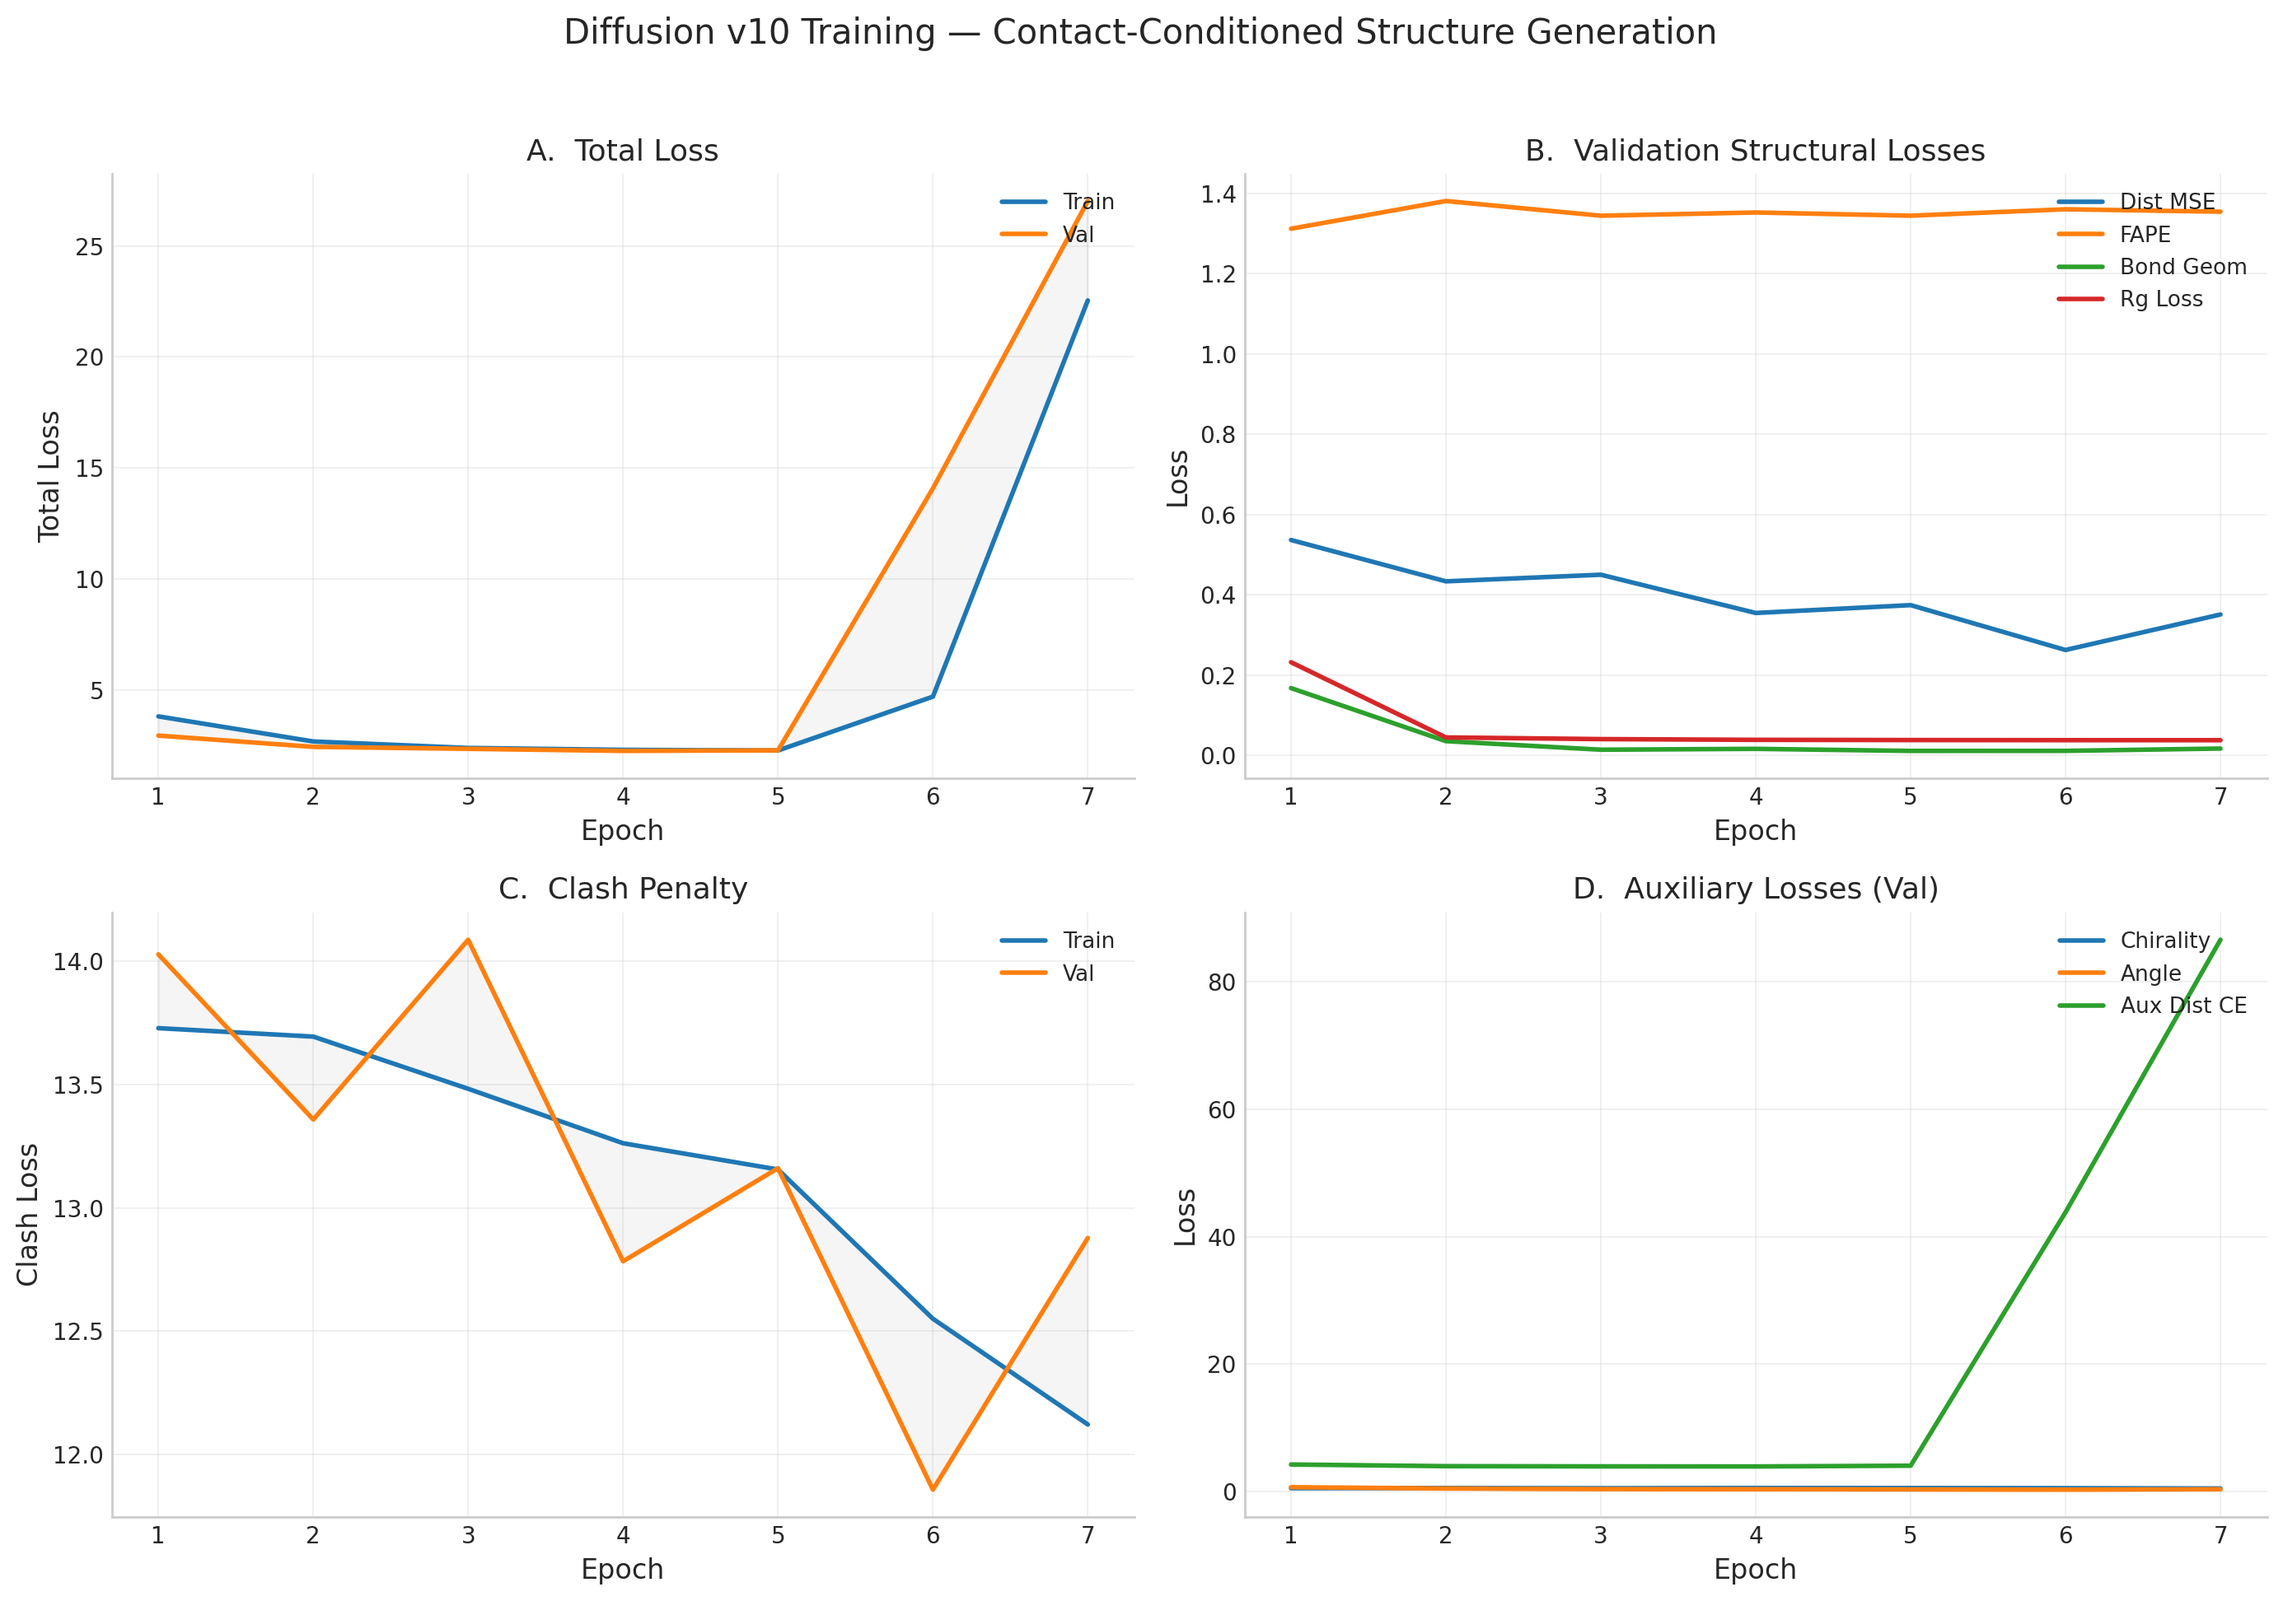
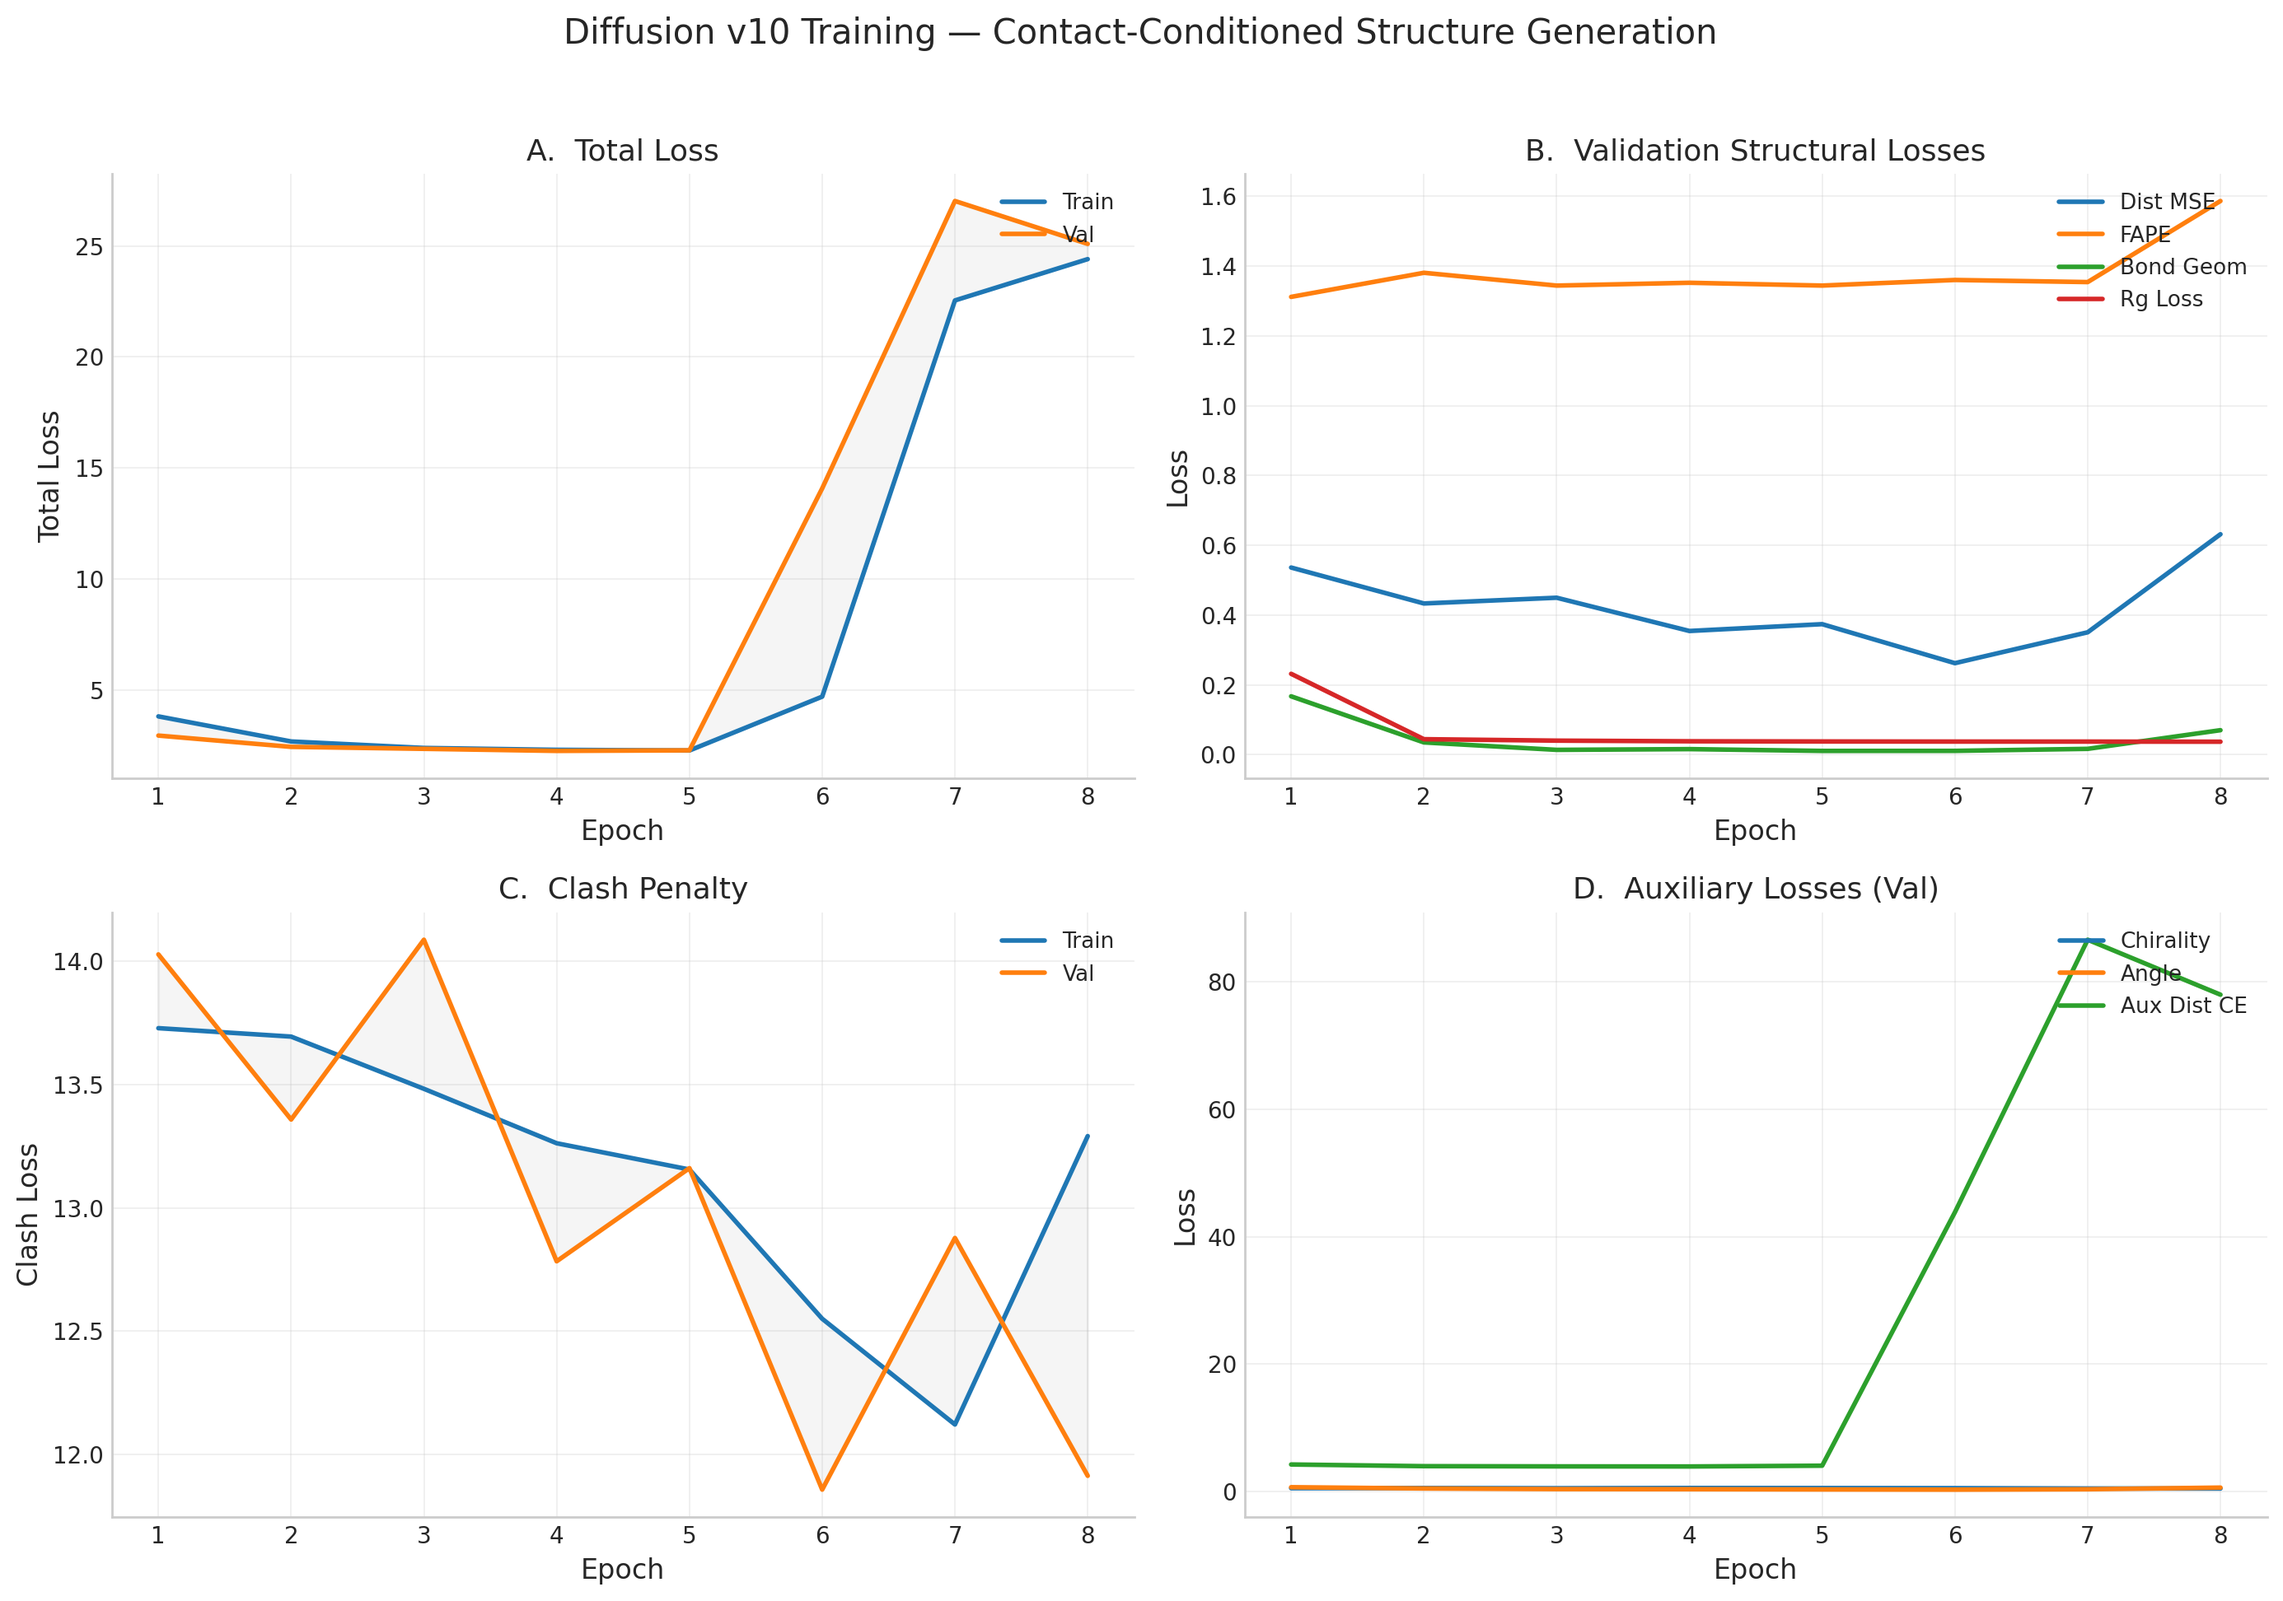
auto-update v10 training progress

diff --git a/index.html b/index.html
@@ -1305,20 +1305,31 @@
                 <td>&mdash;</td>
                 <td><span class="tag tag-pat">pat 3</span></td>
               </tr>
+              <tr>
+                <td>8</td>
+                <td>25.095</td>
+                <td>0.632</td>
+                <td>1.586</td>
+                <td>0.037</td>
+                <td>0.070</td>
+                <td>&mdash;</td>
+                <td>&mdash;</td>
+                <td><span class="tag tag-pat">pat 4</span></td>
+              </tr>
               </tbody>
           </table>
         </div>
 
-        <h4 class="training-progress-heading">Loss Curves (through Epoch 7)</h4>
+        <h4 class="training-progress-heading">Loss Curves (through Epoch 8)</h4>
         <div style="text-align: center; margin: 16px 0;">
           <img src="data/training/v10_loss_curves.png" alt="V10 diffusion training loss curves" style="max-width: 100%; border-radius: 6px; border: 1px solid var(--border);">
         </div>
 
         <div class="training-pending-note" id="v9-run2-status">
-          v10: 7 epochs completed. Best val loss: 2.247 at epoch 4. Patience: 3/15. Best DDIM TM-score: 0.117 (E3). Running on single A40 GPU (savio3) with auto-resume.
+          v10: 8 epochs completed. Best val loss: 2.247 at epoch 4. Patience: 4/15. Best DDIM TM-score: 0.117 (E3). Running on single A40 GPU (savio3) with auto-resume.
         </div>
         <div style="color: var(--text-secondary); font-size: 0.85em; margin-top: 8px;" id="v9-last-updated">
-          Last updated: 2026-03-08 23:20 UTC
+          Last updated: 2026-03-08 23:21 UTC
         </div>
       </div>
 
